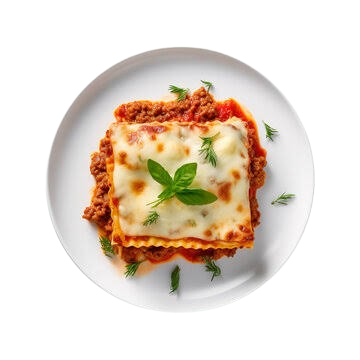
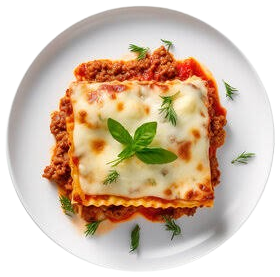
Resize menu and best-seller photos

diff --git a/menu.html b/menu.html
@@ -612,7 +612,7 @@
           </article>
           <article class="menu-card" tabindex="0" data-id="chicken-bbq-with-rice" data-name="Chicken BBQ with Rice" data-price="159" data-type="meal" data-category="rice-meals" data-image="images/menu-items/chicken-barbecue-with-rice.png" data-description="Juicy grilled chicken glazed with a sweet and savory barbecue marinade, bringing the smoky goodness of Filipino street side grilling to your plate.">
             <div class="menu-card__front">
-              <img class="menu-card__img" src="images/menu-items/chicken-barbecue-with-rice.png" alt="A serving of Chicken BBQ with Rice" loading="lazy">
+              <img class="menu-card__img menu-card__img--medium" src="images/menu-items/chicken-barbecue-with-rice.png" alt="A serving of Chicken BBQ with Rice" loading="lazy">
               <h3 class="menu-card__name">Chicken BBQ with Rice</h3>
             </div>
             <div class="menu-card__panel">
@@ -657,7 +657,7 @@
           </article>
           <article class="menu-card" tabindex="0" data-id="sweet-and-sour-chicken-with-rice" data-name="Sweet and Sour Chicken with Rice" data-price="169" data-type="meal" data-category="rice-meals" data-image="images/menu-items/sweet-and-sour-chicken-with-rice.png" data-description="Tender chicken coated in a vibrant sweet and tangy sauce, inspired by the familiar flavors of Chinese style cooking.">
             <div class="menu-card__front">
-              <img class="menu-card__img" src="images/menu-items/sweet-and-sour-chicken-with-rice.png" alt="A serving of Sweet and Sour Chicken with Rice" loading="lazy">
+              <img class="menu-card__img menu-card__img--medium" src="images/menu-items/sweet-and-sour-chicken-with-rice.png" alt="A serving of Sweet and Sour Chicken with Rice" loading="lazy">
               <h3 class="menu-card__name">Sweet and Sour Chicken with Rice</h3>
             </div>
             <div class="menu-card__panel">
@@ -689,7 +689,7 @@
           </article>
           <article class="menu-card" tabindex="0" data-id="creamy-mushroom-carbonara" data-name="Creamy Mushroom Carbonara" data-price="149" data-type="meal" data-category="pastas" data-image="images/menu-items/creamy-mushroom-carbonara.png" data-description="A creamy pasta dish with savory mushrooms and a rich, velvety sauce for a satisfying twist on an Italian inspired classic.">
             <div class="menu-card__front">
-              <img class="menu-card__img" src="images/menu-items/creamy-mushroom-carbonara.png" alt="A serving of Creamy Mushroom Carbonara" loading="lazy">
+              <img class="menu-card__img menu-card__img--large" src="images/menu-items/creamy-mushroom-carbonara.png" alt="A serving of Creamy Mushroom Carbonara" loading="lazy">
               <h3 class="menu-card__name">Creamy Mushroom Carbonara</h3>
             </div>
             <div class="menu-card__panel">
@@ -993,7 +993,7 @@
           <!-- Snacks & Sides -->
           <article class="menu-card" tabindex="0" data-id="tuna-sandwich" data-name="Tuna Sandwich" data-price="99" data-type="meal" data-category="snacks-sides" data-image="images/menu-items/tuna-sandwich.png" data-description="A satisfying sandwich filled with savory tuna and a creamy dressing, tucked between soft slices of bread.">
             <div class="menu-card__front">
-              <img class="menu-card__img" src="images/menu-items/tuna-sandwich.png" alt="A serving of Tuna Sandwich" loading="lazy">
+              <img class="menu-card__img menu-card__img--large" src="images/menu-items/tuna-sandwich.png" alt="A serving of Tuna Sandwich" loading="lazy">
               <h3 class="menu-card__name">Tuna Sandwich</h3>
             </div>
             <div class="menu-card__panel">
@@ -1038,7 +1038,7 @@
           </article>
           <article class="menu-card" tabindex="0" data-id="chicken-club-sandwich" data-name="Chicken Club Sandwich" data-price="149" data-type="meal" data-category="snacks-sides" data-image="images/menu-items/chicken-clubhouse-sandwich.png" data-description="Layers of chicken, fresh vegetables, and savory fillings stacked between bread for a hearty, satisfying snack.">
             <div class="menu-card__front">
-              <img class="menu-card__img" src="images/menu-items/chicken-clubhouse-sandwich.png" alt="A serving of Chicken Club Sandwich" loading="lazy">
+              <img class="menu-card__img menu-card__img--large" src="images/menu-items/chicken-clubhouse-sandwich.png" alt="A serving of Chicken Club Sandwich" loading="lazy">
               <h3 class="menu-card__name">Chicken Club Sandwich</h3>
             </div>
             <div class="menu-card__panel">

diff --git a/style.css b/style.css
@@ -738,6 +738,11 @@ body.is-leaving .site-footer {
   object-fit: contain;
 }
 
+/* Best-seller photo drawn bigger inside its box (the card size doesn't change) */
+.product-card__img--large {
+  transform: scale(1.2);
+}
+
 /* Best-seller name */
 .product-card__name {
   font-family: var(--font-body);
@@ -1568,6 +1573,12 @@ body.is-leaving .site-footer {
   max-width: 150px;
   aspect-ratio: 1 / 1;
   object-fit: contain;
+}
+
+/* Smaller card photo for round plates that fill their whole picture */
+.menu-card__img--medium {
+  width: 88%;
+  max-width: 132px;
 }
 
 /* Card item name */
@@ -3185,6 +3196,16 @@ body.modal-open {
   /* More padding on the card front */
   .menu-card__front {
     padding: 1.25rem 0.75rem;
+  }
+
+  /* Bigger photo box for items whose photos look small (wide plates and sandwiches) */
+  .menu-card__img--large {
+    max-width: 185px;
+  }
+
+  /* Smaller photo box for photos that fill their whole picture (round plates) */
+  .menu-card__img--medium {
+    max-width: 145px;
   }
 
   /* Bigger card names */

diff --git a/index.html b/index.html
@@ -119,7 +119,7 @@
             </div>
           </article>
           <article class="product-card">
-            <img class="product-card__img" src="images/menu-items/iced-matcha.png" alt="Iced matcha latte in a san tayo brew? cup" loading="lazy">
+            <img class="product-card__img product-card__img--large" src="images/menu-items/iced-matcha.png" alt="Iced matcha latte in a san tayo brew? cup" loading="lazy">
             <h3 class="product-card__name">Iced Matcha</h3>
             <div class="menu-card__panel">
               <div class="menu-card__panel-top">
